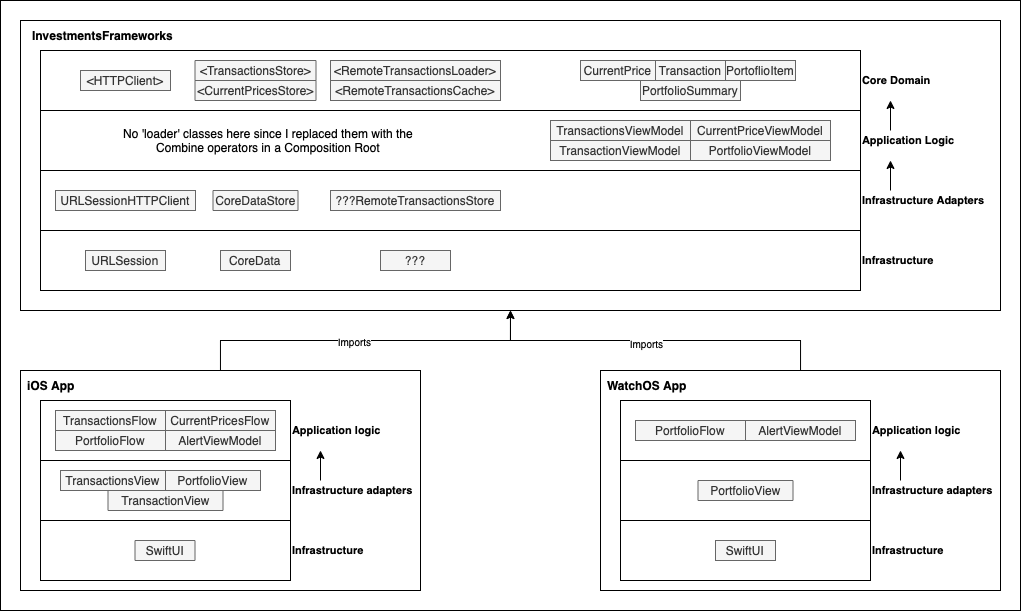
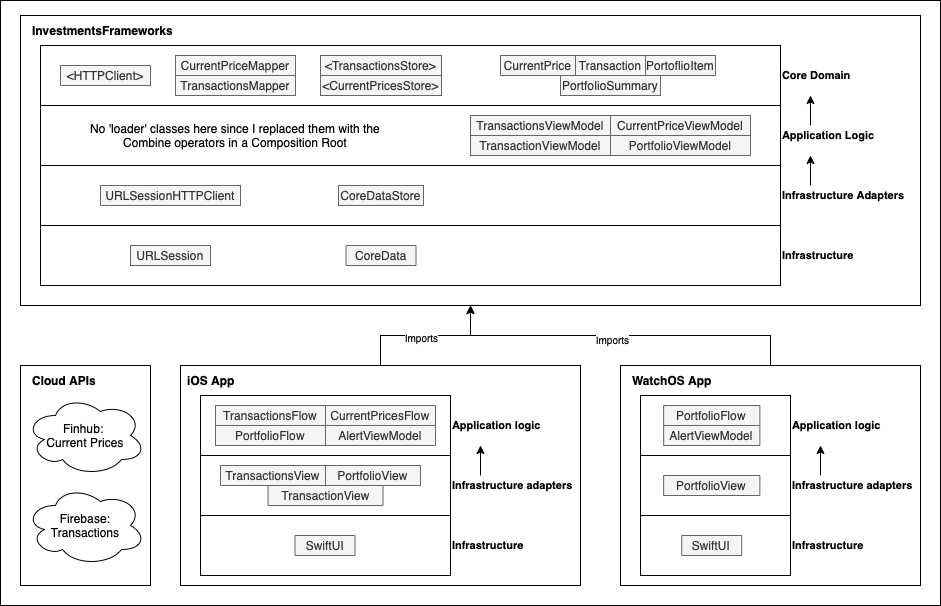
Improve architecture scheme and enhance readme with new information

diff --git a/README.md b/README.md
@@ -6,14 +6,17 @@
 
 The app's purpose is to have an instrument for real-time monitoring of the profit of user investments portfolio. Just open the app and see the answer! 
 
-I used the TDD approach (write the test - write code - refactor). The workspace consists of two projects:
+I used the TDD approach (write the test - write code - refactor). The workspace consists of three projects:
 - Investments frameworks (platform-agnostic, runs on macOS and iOS)
-- Investments App (platform-specific, runs on iOS).
-Frameworks know nothing about the app. App imports frameworks for the desired functionality.
+- Investments App for iOS (platform-specific, runs on iOS)
+- Investments App for watchOS (platform-specific, runs on watchOS)
+Frameworks know nothing about the app. Apps import frameworks for the desired functionality.
 
-The app propagates the Dependency Injection principe, and the central part is a Composition Root (class UIComposer). I used Combine, especially in a Composition, to create a price loader publisher and to maintain subscriptions between different app states. The Combine is extremely useful since you can replace decorators and adapters with standard predefined operators. You can see it in CurrentPriceLoaderFactory.
+The app propagates the Dependency Injection principe, and the central part is a Composition Root (class UIComposer). I used Combine to create a price loader publisher and to maintain subscriptions between different app states. The Combine is extremely useful since you can replace decorators and adapters with standard predefined operators.
 
 For the UI, I used the SwiftUI framework and the ViewInspector to make tests for SwiftUI views. 
+
+I used FinHub API (https://finnhub.io/docs/api/authentication) for retrieving current stock prices and Firebase (with REST API) to store transactions. 
 
 ## App Architecture
 
